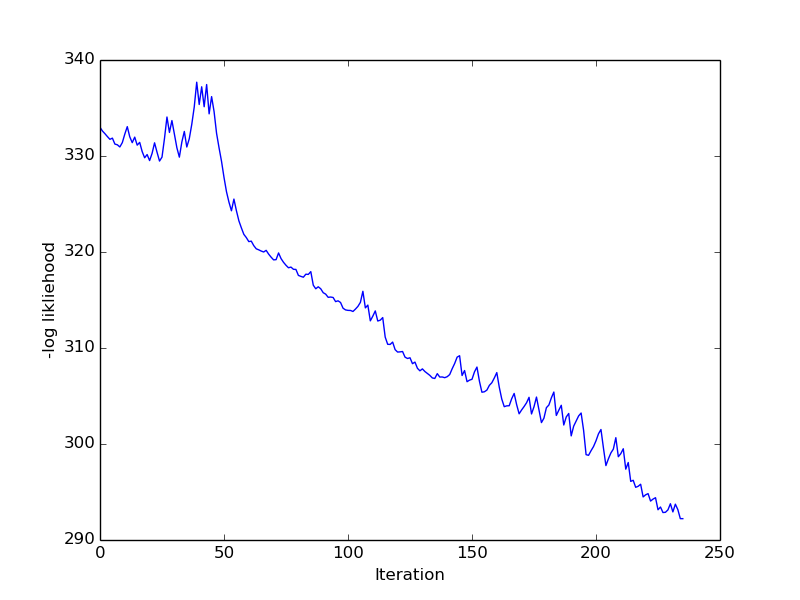
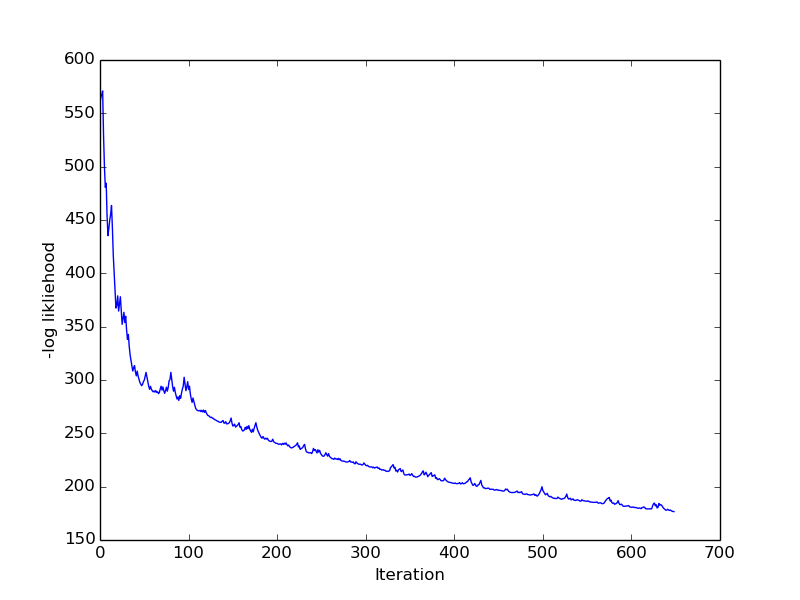
Cleaned up code

diff --git a/week2/stocastic.py b/week2/stocastic.py
@@ -49,7 +49,7 @@ def run_descent(X, y, b, e, step_size, l):
         l.append(calc_l(X, y, b))
         i+=1
         
-        if i>1000000:
+        if i>10000:
             break
 
     return b, l
@@ -78,24 +78,25 @@ def predict_acc(X, y, b):
 #Read in the data set 
 dataSet = pd.read_csv('wdbc.csv',header=None, usecols=range(1,12))
 
-#Define X matrix and y vector from the data
 #Select the first column for y, convert to binary array
 y = dataSet[1].map({'M':1, 'B':0})
 y = y.values
+#y = y.reshape(y.shape[0],1)
+
 #Use the rest for X. Scale X by the size of the vector
 X = dataSet.drop(1, 1).values
 min_max_scaler = preprocessing.MinMaxScaler()
 X = min_max_scaler.fit_transform(X)
-#X = X/np.linalg.norm(X, ord=1)
+X = np.insert(X, 10, 1, axis=1)
 
 b_orig = np.random.rand(len(X[0]))
-#b_orig = b_orig/np.linalg.norm(b_orig, ord=1)
 
-#Run deepest descent for a few different numbers of iterations. Plot the l that results. Print the accuracy of the calculated b vector
+#Run stocastic descent for different step sizes. Plot likliehood, and accuracey of prediction
 for step_size in [0.01, 0.1, 1]:
     l = []
+    b = b_orig.copy()
 
-    b, l = run_descent(X, y, b_orig, 0.00001, step_size, l)
+    b, l = run_descent(X, y, b, 0.00001, step_size, l)
 
     plt.figure()
     plt.plot(l)
@@ -107,3 +108,5 @@ for step_size in [0.01, 0.1, 1]:
     b = b/np.linalg.norm(b, ord=1)
     print "Step Size: "+str(step_size)
     print "Accuracey of prediction: "+str(predict_acc(X, y, b))
+
+    b = None 
